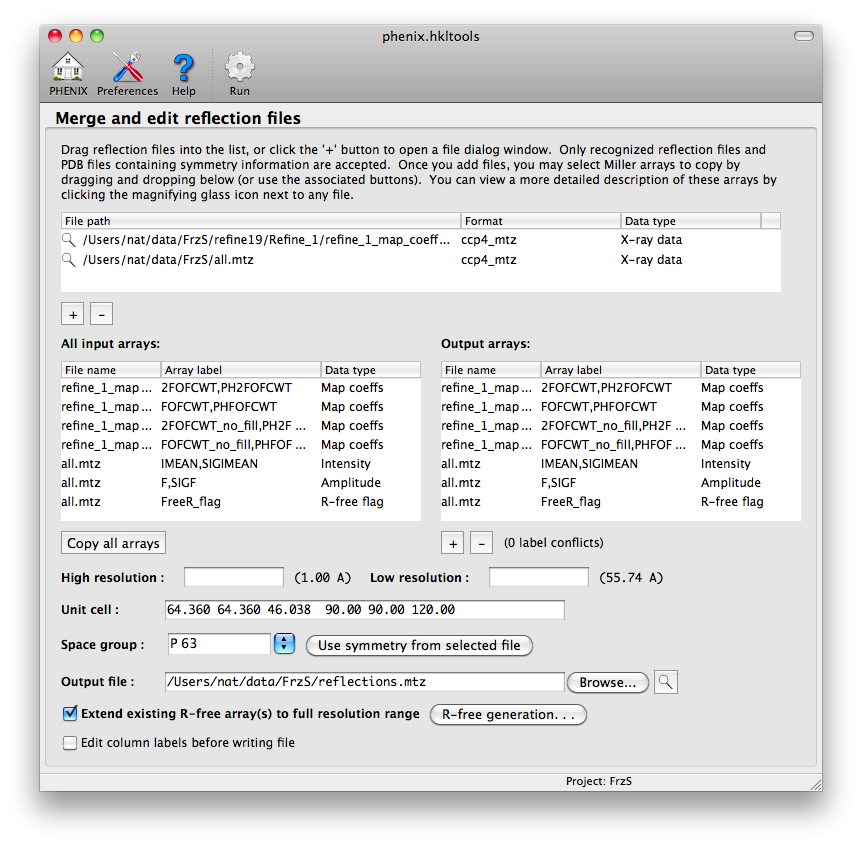
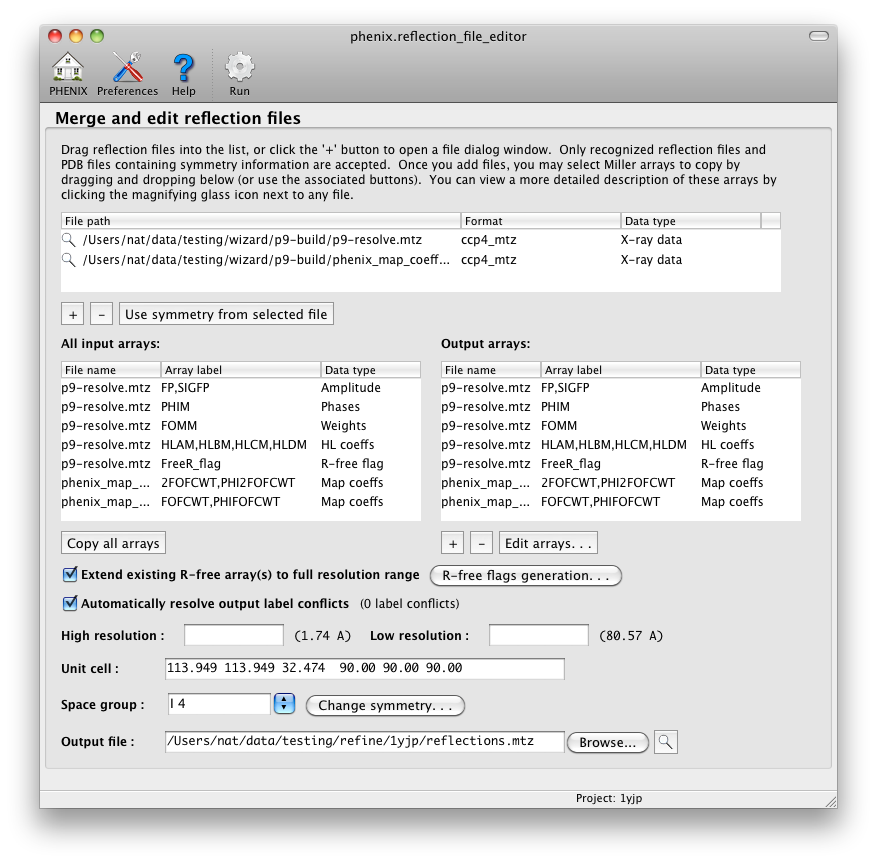
updated reflection file editor documentation and added it to index

Changed region(s): [[0.0302, 0.0307, 0.9652, 0.9527], [0.3921, 0.0307, 0.6032, 0.0615]]

diff --git a/phenix_documentation.html b/phenix_documentation.html
@@ -78,6 +78,8 @@ td {font-family: verdana, helvetica, arial, sans-serif; font-size: 0.9em}
     <LI><A
     href="reflection_file_tools.htm">Structure
     factor file inspection and conversions</A>
+    <li><a
+    href="reflection_file_editor.htm">Graphical editor for MTZ files</a>
     <LI><A
     href="xmanip.htm">Manipulating
     reflection data with phenix.xmanip</A>
